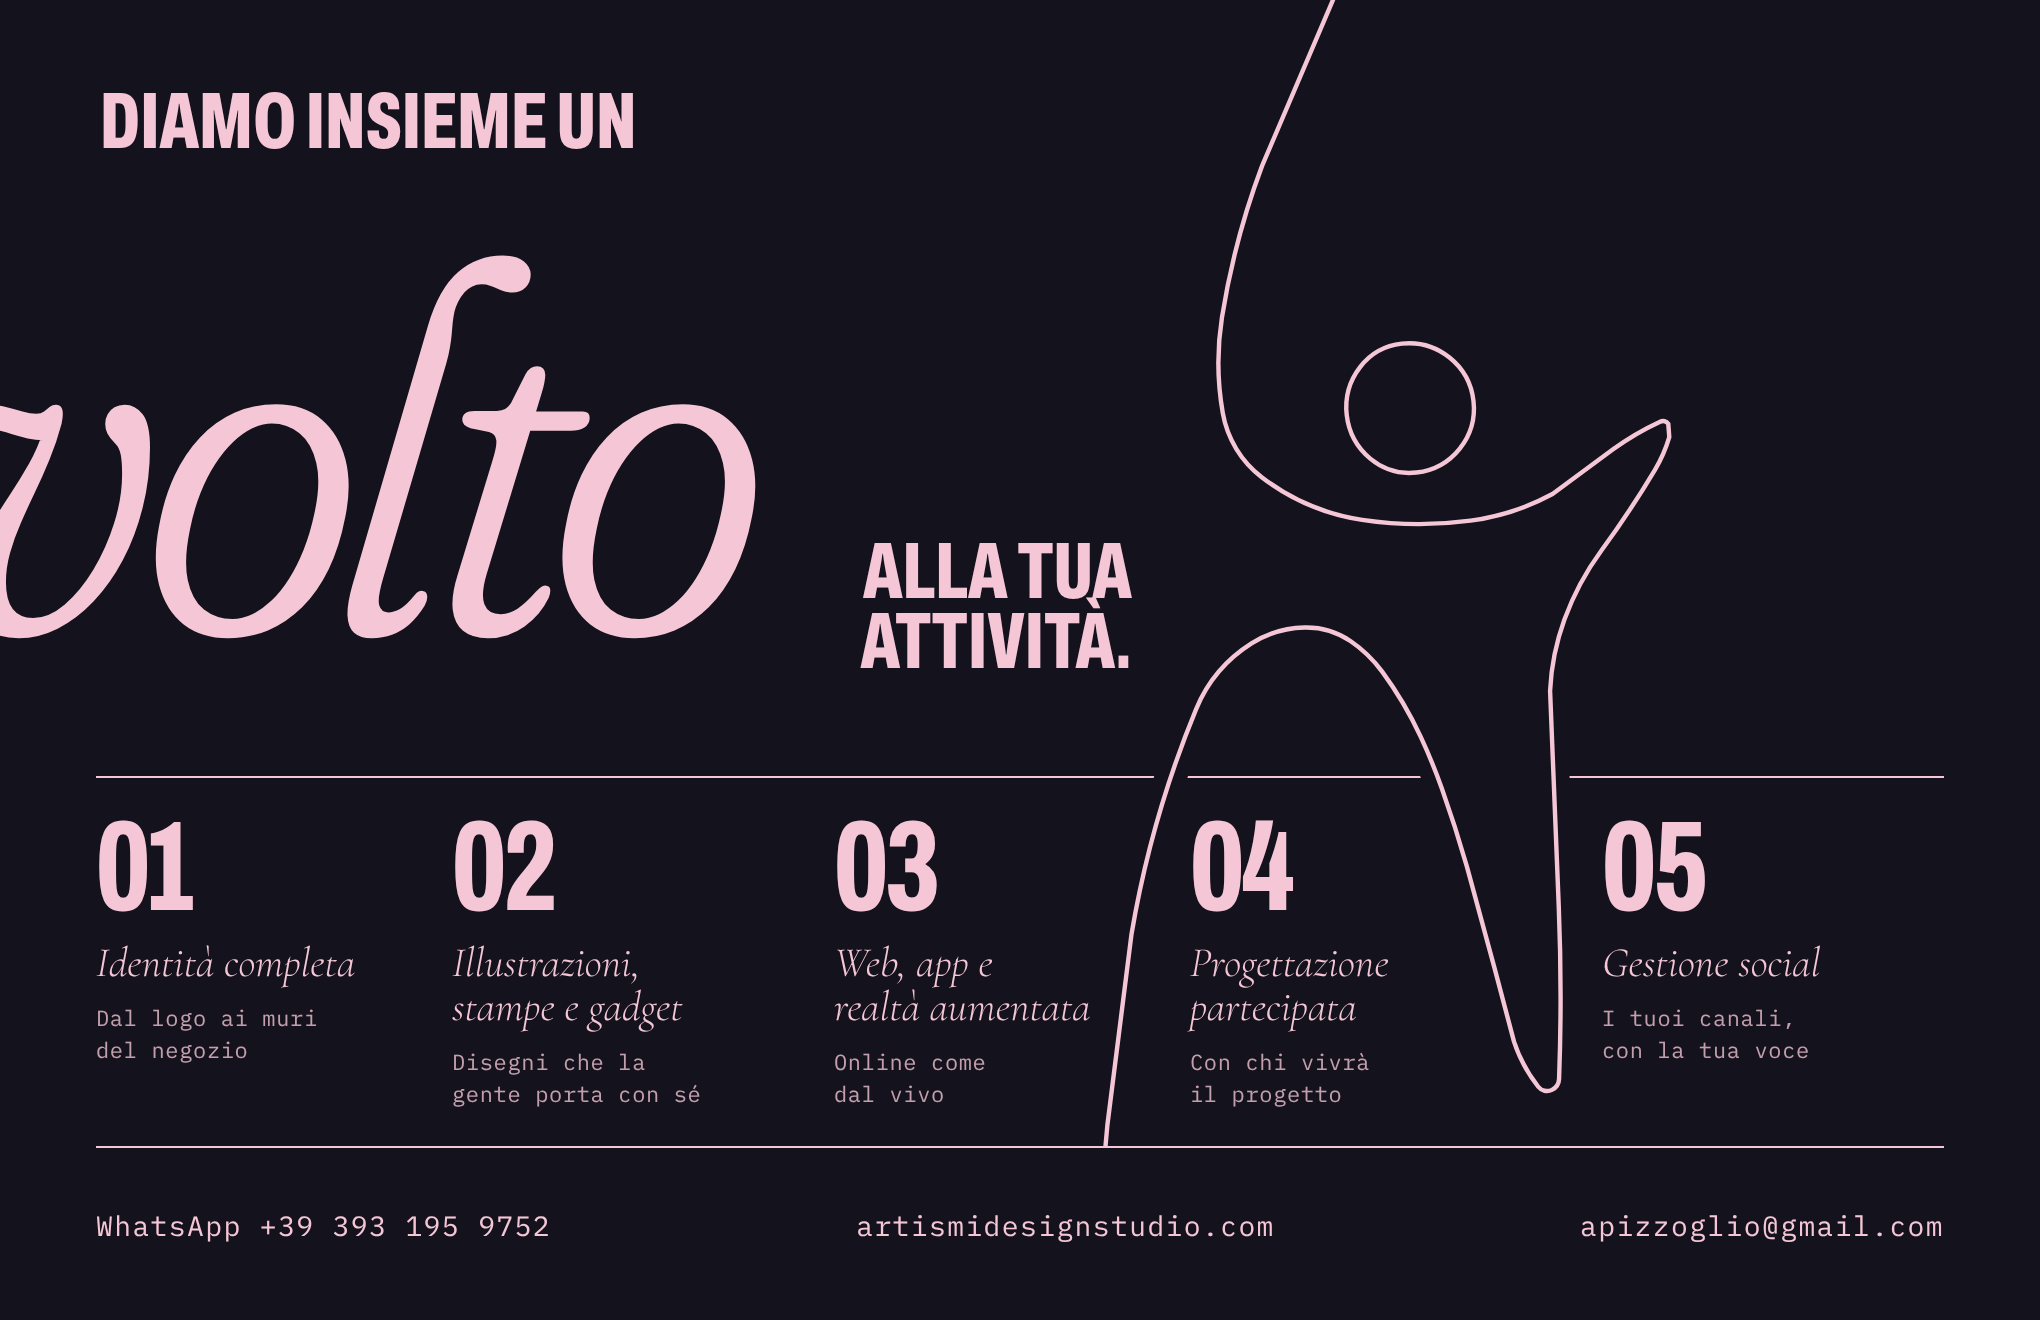
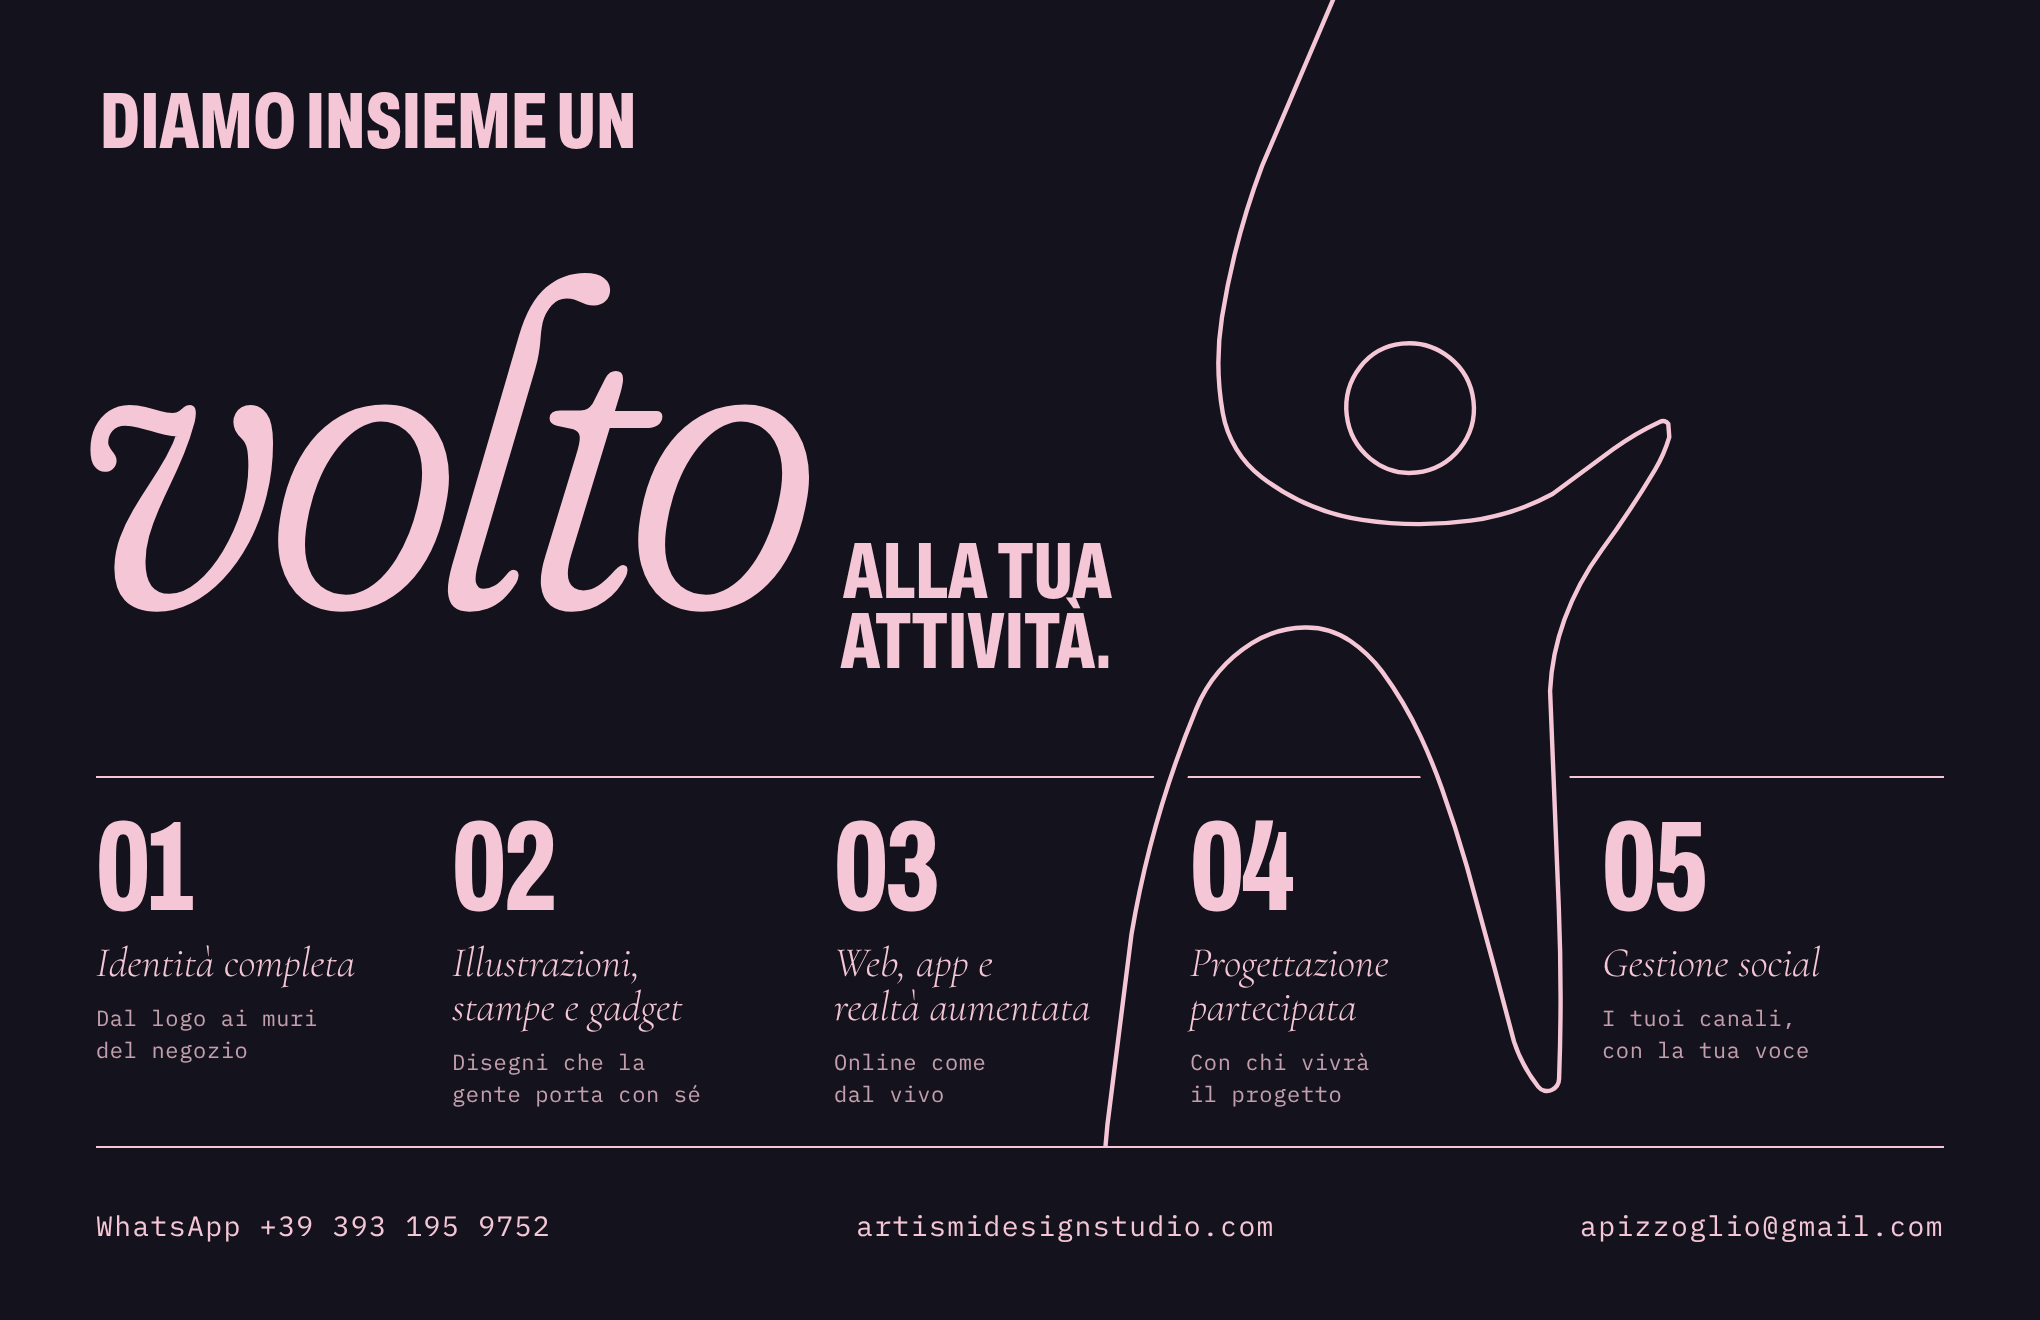
Biglietto, retro: volto intero dentro il biglietto, non piu' tagliato a sinistra
Claude-Session: https://claude.ai/code/session_017BM5XjeHCbJ6zegj574eXv

Changed region(s): [[0.0, 0.1864, 0.5559, 0.528]]

diff --git a/ar-print/biglietto-retro.html b/ar-print/biglietto-retro.html
@@ -19,14 +19,14 @@
   .det { position: absolute; left: 0; top: 0; width: 1020px; height: 574px; overflow: hidden; }  /* la figura scende fra i servizi */
   .det path { fill: none; stroke: #F5C7D6; stroke-width: 1.100; stroke-linejoin: round; stroke-linecap: round; }
   .det path.alone { stroke: #14121C; stroke-width: 8.000; }  /* dove la figura attraversa il filetto di sopra, il filetto si interrompe */
-  /* il claim come la proposta B: volto enorme che esce dal bordo sinistro, la frase piccola intorno; il resto
+  /* il claim come la proposta B: volto grande e intero, la frase piccola intorno; il resto
      della frase si stringe a destra, in due righe, fra la fine di volto e l'omino */
   .claim { position: absolute; left: 0; top: 0; width: 600px; height: 388px; }
   .claim span { position: absolute; white-space: nowrap; }
   .claim .prima { left: 50px; top: 46px; font-size: 40px; line-height: .74; }
-  .claim .v { left: -34px; top: 92px; font-size: 262px; line-height: 1; letter-spacing: -.03em;
+  .claim .v { left: 40px; top: 104px; font-size: 232px; line-height: 1; letter-spacing: -.03em;
                font-family: "Fraunces", serif; font-style: italic; font-weight: 300; font-variation-settings: "SOFT" 100, "WONK" 1, "opsz" 144; }
-  .claim .dopo { right: 34px; bottom: 50px; font-size: 40px; line-height: .86; text-align: right; }
+  .claim .dopo { right: 44px; bottom: 50px; font-size: 40px; line-height: .86; text-align: right; }
   .linea { position: absolute; left: 48px; right: 48px; height: 0; border-top: 1px solid #F5C7D6; }
   .indice { position: absolute; left: 48px; right: 48px; top: 408px; list-style: none; display: grid; grid-template-columns: 162px 175px 162px 190px 1fr; gap: 16px; }
   .indice li:nth-child(3) > .m { max-width: 110px; }

diff --git a/ar-print/varianti/retro-bc/biglietto-retro.html b/ar-print/varianti/retro-bc/biglietto-retro.html
@@ -19,14 +19,14 @@
   .det { position: absolute; left: 0; top: 0; width: 1020px; height: 574px; overflow: hidden; }  /* la figura scende fra i servizi */
   .det path { fill: none; stroke: #F5C7D6; stroke-width: 1.100; stroke-linejoin: round; stroke-linecap: round; }
   .det path.alone { stroke: #14121C; stroke-width: 8.000; }  /* dove la figura attraversa il filetto di sopra, il filetto si interrompe */
-  /* il claim come la proposta B: volto enorme che esce dal bordo sinistro, la frase piccola intorno; il resto
+  /* il claim come la proposta B: volto grande e intero, la frase piccola intorno; il resto
      della frase si stringe a destra, in due righe, fra la fine di volto e l'omino */
   .claim { position: absolute; left: 0; top: 0; width: 600px; height: 388px; }
   .claim span { position: absolute; white-space: nowrap; }
   .claim .prima { left: 50px; top: 46px; font-size: 40px; line-height: .74; }
-  .claim .v { left: -34px; top: 92px; font-size: 262px; line-height: 1; letter-spacing: -.03em;
+  .claim .v { left: 40px; top: 104px; font-size: 232px; line-height: 1; letter-spacing: -.03em;
                font-family: "Fraunces", serif; font-style: italic; font-weight: 300; font-variation-settings: "SOFT" 100, "WONK" 1, "opsz" 144; }
-  .claim .dopo { right: 34px; bottom: 50px; font-size: 40px; line-height: .86; text-align: right; }
+  .claim .dopo { right: 44px; bottom: 50px; font-size: 40px; line-height: .86; text-align: right; }
   .linea { position: absolute; left: 48px; right: 48px; height: 0; border-top: 1px solid #F5C7D6; }
   .indice { position: absolute; left: 48px; right: 48px; top: 408px; list-style: none; display: grid; grid-template-columns: 162px 175px 162px 190px 1fr; gap: 16px; }
   .indice li:nth-child(3) > .m { max-width: 110px; }

diff --git a/scripts/biglietto-retri.py b/scripts/biglietto-retri.py
@@ -188,14 +188,14 @@ scrivi('retro-bc', NOTTE, ROSA, f'''
   .det {{ position: absolute; left: 0; top: 0; width: 1020px; height: {FONDO}px; overflow: hidden; }}  /* la figura scende fra i servizi */
   .det path {{ fill: none; stroke: {ROSA}; stroke-width: {2.2 / SC:.3f}; stroke-linejoin: round; stroke-linecap: round; }}
   .det path.alone {{ stroke: {NOTTE}; stroke-width: {16 / SC:.3f}; }}  /* dove la figura attraversa il filetto di sopra, il filetto si interrompe */
-  /* il claim come la proposta B: volto enorme che esce dal bordo sinistro, la frase piccola intorno; il resto
+  /* il claim come la proposta B: volto grande e intero, la frase piccola intorno; il resto
      della frase si stringe a destra, in due righe, fra la fine di volto e l'omino */
   .claim {{ position: absolute; left: 0; top: 0; width: 600px; height: {RIGA}px; }}
   .claim span {{ position: absolute; white-space: nowrap; }}
   .claim .prima {{ left: 50px; top: 46px; font-size: 40px; line-height: .74; }}
-  .claim .v {{ left: -34px; top: 92px; font-size: 262px; line-height: 1; letter-spacing: -.03em;
+  .claim .v {{ left: 40px; top: 104px; font-size: 232px; line-height: 1; letter-spacing: -.03em;
                font-family: "Fraunces", serif; font-style: italic; font-weight: 300; font-variation-settings: "SOFT" 100, "WONK" 1, "opsz" 144; }}
-  .claim .dopo {{ right: 34px; bottom: 50px; font-size: 40px; line-height: .86; text-align: right; }}
+  .claim .dopo {{ right: 44px; bottom: 50px; font-size: 40px; line-height: .86; text-align: right; }}
   .linea {{ position: absolute; left: 48px; right: 48px; height: 0; border-top: 1px solid {ROSA}; }}
   .indice {{ position: absolute; left: 48px; right: 48px; top: {RIGA + 20}px; list-style: none; display: grid; grid-template-columns: 162px 175px 162px 190px 1fr; gap: 16px; }}
   .indice li:nth-child(3) > .m {{ max-width: 110px; }}
